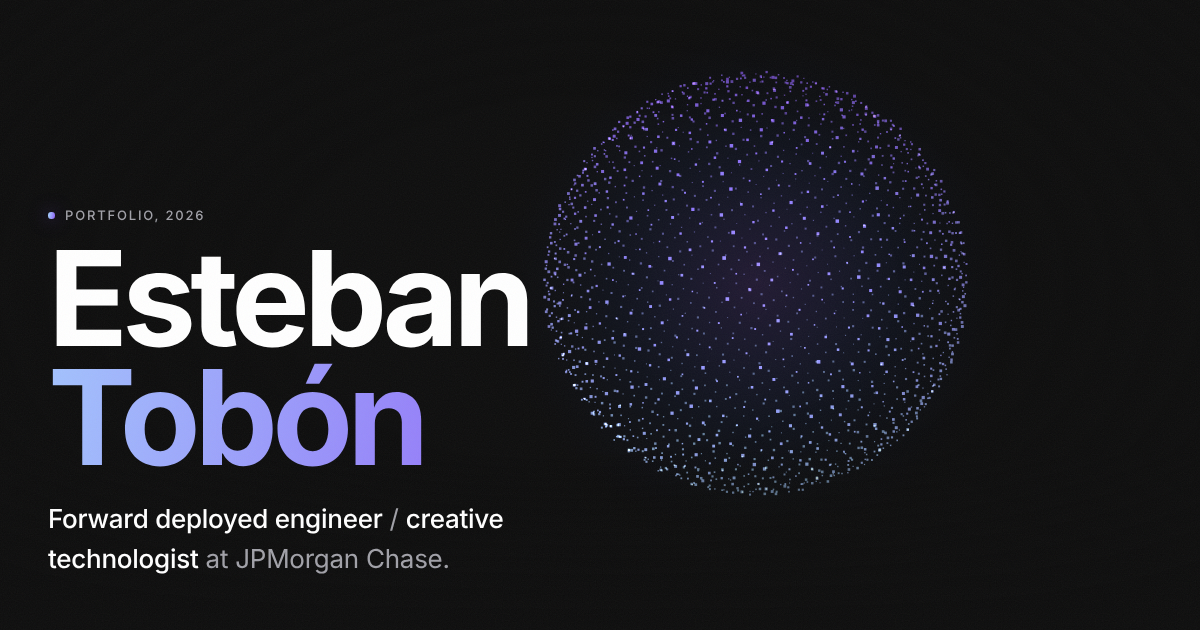
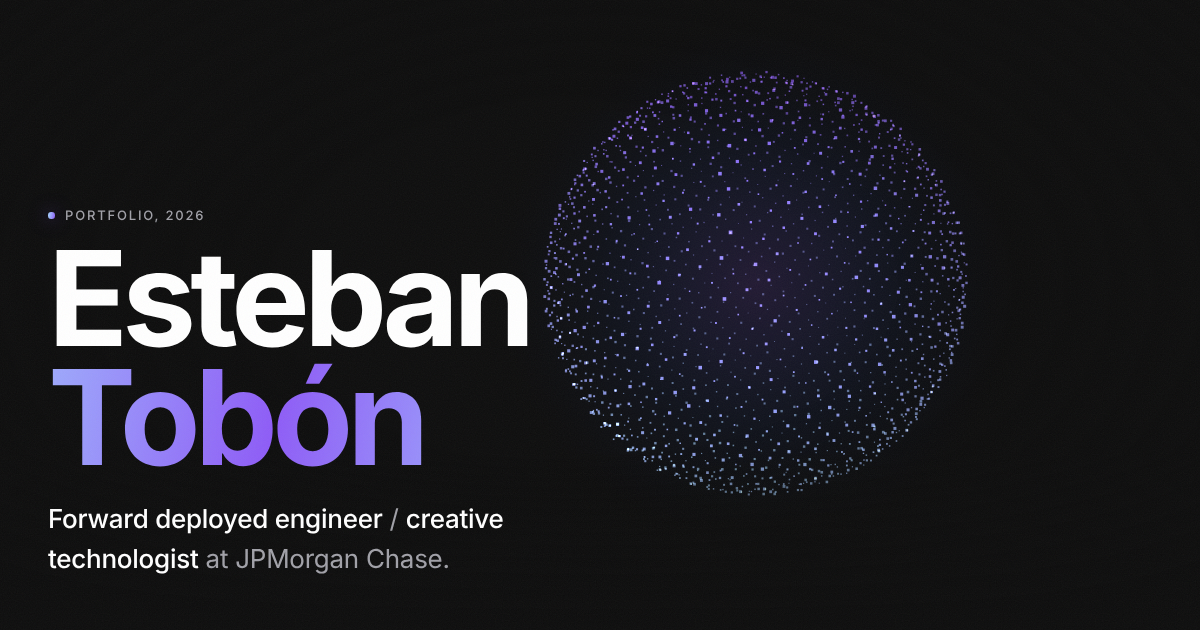
Livelier gradient, colored CTAs, shorter intro, minimal Marquis card
- Gradient text shows the full light blue to purple blend again and
  returns to section accents; page glows are stronger
- Message on LinkedIn is solid blue; Download resume is solid purple
  with a download icon (both pass 4.5:1 with white text)
- Project links and role titles use light blue instead of white
- Index statement shortened to one sentence at a smaller size
- Marquis card: wordmark only, on black

Claude-Session: https://claude.ai/code/session_01PE2Y16ZtRoL6vg8EHVayUC

diff --git a/me.html b/me.html
@@ -15,7 +15,7 @@
   <meta name="twitter:card" content="summary_large_image">
   <script>document.documentElement.classList.add('js');try{if(localStorage.getItem('motion')==='off')document.documentElement.classList.add('reduce-motion')}catch(e){}</script>
   <link rel="icon" href="assets/favicon.svg" type="image/svg+xml">
-  <link rel="stylesheet" href="assets/css/site.css?v=7">
+  <link rel="stylesheet" href="assets/css/site.css?v=8">
 </head>
 <body>
   <a class="skip" href="#main">Skip to content</a>
@@ -45,7 +45,7 @@
           <h1 class="display reveal" style="--i:1;margin-top:18px;font-size:clamp(52px,8.5vw,128px)">Hi, I'm<br><span class="grad-text">Esteban.</span></h1>
           <p class="lead reveal" style="--i:2;margin-top:28px">Forward deployed engineer and creative technologist at JPMorgan Chase. I work across AI, design and engineering, and I like shipping things that feel good to use.</p>
           <div class="links-row reveal" style="--i:3">
-            <a class="btn btn-grad" href="assets/Esteban-Tobon-Resume.pdf" download="Esteban-Tobon-Resume.pdf">Download resume</a>
+            <a class="btn btn-purple" href="assets/Esteban-Tobon-Resume.pdf" download="Esteban-Tobon-Resume.pdf"><svg class="btn-ico" viewBox="0 0 24 24" fill="none" stroke="currentColor" stroke-width="1.8" stroke-linecap="round" stroke-linejoin="round" aria-hidden="true" focusable="false"><path d="M12 4v11"/><path d="M7.5 10.5 12 15l4.5-4.5"/><path d="M5 19.5h14"/></svg>Download resume</a>
             <a class="btn" href="https://www.linkedin.com/in/estebantobon" target="_blank" rel="noopener"><svg class="btn-ico" viewBox="0 0 24 24" aria-hidden="true" focusable="false"><path fill="currentColor" d="M20.447 20.452h-3.554v-5.569c0-1.328-.027-3.037-1.852-3.037-1.853 0-2.136 1.445-2.136 2.939v5.667H9.351V9h3.414v1.561h.046c.477-.9 1.637-1.85 3.37-1.85 3.601 0 4.267 2.37 4.267 5.455v6.286zM5.337 7.433a2.062 2.062 0 1 1 0-4.125 2.062 2.062 0 0 1 0 4.125zM7.119 20.452H3.555V9h3.564v11.452zM22.225 0H1.771C.792 0 0 .774 0 1.729v20.542C0 23.227.792 24 1.771 24h20.451C23.2 24 24 23.227 24 22.271V1.729C24 .774 23.2 0 22.222 0h.003z"/></svg>LinkedIn</a>
             <a class="btn" href="https://github.com/estebantobon" target="_blank" rel="noopener"><svg class="btn-ico" viewBox="0 0 16 16" aria-hidden="true" focusable="false"><path fill="currentColor" d="M8 0C3.58 0 0 3.58 0 8c0 3.54 2.29 6.53 5.47 7.59.4.07.55-.17.55-.38 0-.19-.01-.82-.01-1.49-2.01.37-2.53-.49-2.69-.94-.09-.23-.48-.94-.82-1.13-.28-.15-.68-.52-.01-.53.63-.01 1.08.58 1.23.82.72 1.21 1.87.87 2.33.66.07-.52.28-.87.51-1.07-1.78-.2-3.64-.89-3.64-3.95 0-.87.31-1.59.82-2.15-.08-.2-.36-1.02.08-2.12 0 0 .67-.21 2.2.82.64-.18 1.32-.27 2-.27.68 0 1.36.09 2 .27 1.53-1.04 2.2-.82 2.2-.82.44 1.1.16 1.92.08 2.12.51.56.82 1.27.82 2.15 0 3.07-1.87 3.75-3.65 3.95.29.25.54.73.54 1.48 0 1.07-.01 1.93-.01 2.2 0 .21.15.46.55.38A8.013 8.013 0 0 0 16 8c0-4.42-3.58-8-8-8z"/></svg>GitHub</a>
           </div>
@@ -234,9 +234,9 @@
 
     <section class="section cta" aria-labelledby="cta-h">
       <div class="wrap">
-        <h2 id="cta-h" class="display reveal">Let's talk.</h2>
+        <h2 id="cta-h" class="display reveal">Let's <span class="grad-text">talk.</span></h2>
         <div class="cta-actions reveal" style="--i:1">
-          <a class="btn btn-grad" href="https://www.linkedin.com/in/estebantobon" target="_blank" rel="noopener"><svg class="btn-ico" viewBox="0 0 24 24" aria-hidden="true" focusable="false"><path fill="currentColor" d="M20.447 20.452h-3.554v-5.569c0-1.328-.027-3.037-1.852-3.037-1.853 0-2.136 1.445-2.136 2.939v5.667H9.351V9h3.414v1.561h.046c.477-.9 1.637-1.85 3.37-1.85 3.601 0 4.267 2.37 4.267 5.455v6.286zM5.337 7.433a2.062 2.062 0 1 1 0-4.125 2.062 2.062 0 0 1 0 4.125zM7.119 20.452H3.555V9h3.564v11.452zM22.225 0H1.771C.792 0 0 .774 0 1.729v20.542C0 23.227.792 24 1.771 24h20.451C23.2 24 24 23.227 24 22.271V1.729C24 .774 23.2 0 22.222 0h.003z"/></svg>Message on LinkedIn</a>
+          <a class="btn btn-blue" href="https://www.linkedin.com/in/estebantobon" target="_blank" rel="noopener"><svg class="btn-ico" viewBox="0 0 24 24" aria-hidden="true" focusable="false"><path fill="currentColor" d="M20.447 20.452h-3.554v-5.569c0-1.328-.027-3.037-1.852-3.037-1.853 0-2.136 1.445-2.136 2.939v5.667H9.351V9h3.414v1.561h.046c.477-.9 1.637-1.85 3.37-1.85 3.601 0 4.267 2.37 4.267 5.455v6.286zM5.337 7.433a2.062 2.062 0 1 1 0-4.125 2.062 2.062 0 0 1 0 4.125zM7.119 20.452H3.555V9h3.564v11.452zM22.225 0H1.771C.792 0 0 .774 0 1.729v20.542C0 23.227.792 24 1.771 24h20.451C23.2 24 24 23.227 24 22.271V1.729C24 .774 23.2 0 22.222 0h.003z"/></svg>Message on LinkedIn</a>
           <a class="btn" href="mailto:xbancho@gmail.com"><svg class="btn-ico" viewBox="0 0 24 24" aria-hidden="true" focusable="false"><path fill="currentColor" d="M24 5.457v13.909c0 .904-.732 1.636-1.636 1.636h-3.819V11.73L12 16.64l-6.545-4.91v9.273H1.636A1.636 1.636 0 0 1 0 19.366V5.457c0-2.023 2.309-3.178 3.927-1.964L5.455 4.64 12 9.548l6.545-4.91 1.528-1.145C21.69 2.28 24 3.434 24 5.457z"/></svg>Send me an email</a>
         </div>
       </div>
@@ -254,7 +254,7 @@
     </div>
   </footer>
 
-  <script src="assets/js/site.js?v=7" defer></script>
-  <script src="assets/js/me.js?v=7" defer></script>
+  <script src="assets/js/site.js?v=8" defer></script>
+  <script src="assets/js/me.js?v=8" defer></script>
 </body>
 </html>

diff --git a/assets/css/site.css b/assets/css/site.css
@@ -95,7 +95,9 @@ button { font: inherit; color: inherit; background: none; border: 0; cursor: poi
 .lead { font-size: clamp(19px, 2vw, 24px); line-height: 1.45; color: var(--muted); max-width: 40ch; }
 .muted { color: var(--muted); }
 .grad-text {
-  background: var(--grad); -webkit-background-clip: text; background-clip: text;
+  /* baby to purple and back, so every frame of the shimmer shows the full blend */
+  background: linear-gradient(100deg, var(--baby), var(--purple), var(--baby));
+  -webkit-background-clip: text; background-clip: text;
   color: transparent; -webkit-text-fill-color: transparent;
   background-size: 200% 100%;
   animation: shimmer 9s linear infinite alternate;
@@ -179,9 +181,15 @@ body.leaving { opacity: 0; transition: opacity .35s ease; }
 .btn-grad:hover { background: var(--fg); }
 .btn-grad::before {
   content: ""; position: absolute; inset: -2px; z-index: -1; border-radius: inherit;
-  background: var(--grad); filter: blur(16px); opacity: 0; transition: opacity .4s;
+  background: var(--grad); filter: blur(16px); opacity: .3; transition: opacity .4s;
 }
-.btn-grad:hover::before { opacity: .35; }
+.btn-grad:hover::before { opacity: .6; }
+/* Solid colour CTAs, white text (both pass 4.5:1) */
+.btn-blue, .btn-purple { border: 0; color: #fff; }
+.btn-blue { background: #2F5BFF; box-shadow: 0 10px 30px -10px rgba(47,91,255,.7); }
+.btn-blue:hover { background: #4870FF; }
+.btn-purple { background: #7C4DFF; box-shadow: 0 10px 30px -10px rgba(124,77,255,.75); }
+.btn-purple:hover { background: #8E62FF; }
 
 /* ---------- Hero (index) ---------- */
 .hero { position: relative; height: 520vh; }
@@ -234,8 +242,8 @@ body.leaving { opacity: 0; transition: opacity .35s ease; }
 
 /* ---------- Statement (word-by-word light up) ---------- */
 .statement {
-  font-size: clamp(30px, 4.6vw, 64px); line-height: 1.12; letter-spacing: -.03em; font-weight: 500;
-  margin: 0; max-width: 22ch;
+  font-size: clamp(26px, 3.4vw, 46px); line-height: 1.15; letter-spacing: -.025em; font-weight: 500;
+  margin: 0; max-width: 26ch;
 }
 .statement .w { opacity: .16; transition: opacity .25s linear; }
 .statement .w.lit { opacity: 1; }
@@ -329,6 +337,7 @@ body.leaving { opacity: 0; transition: opacity .35s ease; }
 }
 .card:hover .card-art img { transform: scale(1.04); filter: saturate(1); }
 .card-art.contain img { object-fit: contain; padding: 8% 12%; }
+.card-art.contain.wordmark img { padding: 22% 18%; }
 .card-art:has(img)::before { display: none; }
 .card-art .browser {
   position: absolute; left: 10%; right: 10%; top: 16%; bottom: -12%;
@@ -357,7 +366,7 @@ body.leaving { opacity: 0; transition: opacity .35s ease; }
 .card p { margin: 0; color: var(--muted); font-size: 15.5px; line-height: 1.5; }
 .card-link {
   margin-top: auto; padding-top: 12px; display: inline-flex; align-items: center; gap: 8px;
-  font-size: 15px; font-weight: 500;
+  font-size: 15px; font-weight: 500; color: var(--baby);
 }
 .card-link::before { content: ""; position: absolute; inset: 0; z-index: 2; } /* whole card clickable */
 
@@ -377,9 +386,9 @@ body.leaving { opacity: 0; transition: opacity .35s ease; }
 .orb {
   position: absolute; z-index: 0; border-radius: 50%; filter: blur(70px); opacity: .55; pointer-events: none;
 }
-.orb-a { width: 46vw; height: 46vw; right: -10vw; top: -14vw; background: radial-gradient(circle, var(--purple), transparent 65%); opacity: .4; }
-.orb-b { width: 36vw; height: 36vw; left: -12vw; top: 18vw; background: radial-gradient(circle, var(--baby), transparent 65%); opacity: .22; }
-.orb-c { width: 28vw; height: 28vw; right: 18vw; top: 26vw; background: radial-gradient(circle, var(--purple), transparent 65%); opacity: .18; }
+.orb-a { width: 46vw; height: 46vw; right: -10vw; top: -14vw; background: radial-gradient(circle, var(--purple), transparent 65%); opacity: .55; }
+.orb-b { width: 36vw; height: 36vw; left: -12vw; top: 18vw; background: radial-gradient(circle, #6FBFFF, transparent 65%); opacity: .45; }
+.orb-c { width: 28vw; height: 28vw; right: 18vw; top: 26vw; background: radial-gradient(circle, var(--purple), transparent 65%); opacity: .3; }
 
 /* ---------- Play ---------- */
 .filters { display: flex; gap: 8px; flex-wrap: wrap; margin-bottom: 36px; }
@@ -463,7 +472,7 @@ body.leaving { opacity: 0; transition: opacity .35s ease; }
 .timeline time { color: var(--muted); font-size: 15px; font-variant-numeric: tabular-nums; }
 .timeline h3 { margin: 0; font-size: 22px; letter-spacing: -.02em; font-weight: 600; }
 .timeline p { margin: 6px 0 0; color: var(--muted); }
-.timeline .role-title { color: var(--fg); opacity: .85; margin-top: 4px; }
+.timeline .role-title { color: var(--baby); margin-top: 4px; }
 .now { display: inline-flex; align-items: center; gap: 8px; font-size: 13px; color: var(--fg); margin-left: 10px; vertical-align: middle; }
 .now::before { content: ""; width: 8px; height: 8px; border-radius: 50%; background: #5BE49B; box-shadow: 0 0 0 0 rgba(91,228,155,.6); animation: ping 2s infinite; }
 @keyframes ping { 70% { box-shadow: 0 0 0 10px rgba(91,228,155,0); } 100% { box-shadow: 0 0 0 0 rgba(91,228,155,0); } }

diff --git a/index.html b/index.html
@@ -17,7 +17,7 @@
   <meta name="twitter:card" content="summary_large_image">
   <script>document.documentElement.classList.add('js');try{if(localStorage.getItem('motion')==='off')document.documentElement.classList.add('reduce-motion')}catch(e){}</script>
   <link rel="icon" href="assets/favicon.svg" type="image/svg+xml">
-  <link rel="stylesheet" href="assets/css/site.css?v=7">
+  <link rel="stylesheet" href="assets/css/site.css?v=8">
 </head>
 <body>
   <a class="skip" href="#main">Skip to content</a>
@@ -52,7 +52,7 @@
           </div>
           <div class="chapter" aria-hidden="true">
             <p class="chapter-num">02 / Build</p>
-            <p class="h2">Prototype in code,<br>on real data.</p>
+            <p class="h2">Prototype in code,<br><span class="grad-text">on real data.</span></p>
             <p class="lead">AI where it earns its place, design everywhere else.</p>
           </div>
           <div class="chapter" aria-hidden="true">
@@ -72,7 +72,7 @@
       <div class="wrap">
         <h2 id="about-h" class="eyebrow reveal"><span class="dot"></span>&nbsp; What I do</h2>
         <p class="statement" style="margin-top:28px">
-          I'm a forward deployed engineer and creative technologist at JPMorgan&nbsp;Chase, building AI tools, automations, and scalable web and content systems. Practical code, thoughtful design and smart AI that turn complexity into simple, lovable products.
+          I build AI tools, automations and web systems at JPMorgan&nbsp;Chase, turning complexity into <span class="grad-text">simple, lovable products.</span>
         </p>
       </div>
     </section>
@@ -117,7 +117,7 @@
         <div class="section-head">
           <div>
             <p class="eyebrow reveal"><span class="dot"></span>&nbsp; Selected web work</p>
-            <h2 id="work-h" class="h2 reveal" style="--i:1;margin-top:16px">Sites I've<br>designed &amp; built.</h2>
+            <h2 id="work-h" class="h2 reveal" style="--i:1;margin-top:16px">Sites I've<br><span class="grad-text">designed &amp; built.</span></h2>
           </div>
           <p class="muted reveal" style="--i:2;max-width:34ch;margin:0">Websites and digital experiences I've designed, developed and directed for brands across health, fashion, real estate, logistics, fintech and gaming.</p>
         </div>
@@ -148,7 +148,7 @@
             </div>
           </article>
           <article class="card reveal" style="--i:0" data-slug="marquis">
-            <div class="card-art contain" style="background:#34587a"><img src="assets/projects/marquis.webp" alt="Marquis Residences logo" loading="lazy" decoding="async"></div>
+            <div class="card-art contain wordmark" style="background:#000"><img src="assets/projects/marquis-wordmark.webp" alt="Marquis Residences logo" width="572" height="176" loading="lazy" decoding="async"></div>
             <div class="card-body">
               <div class="card-top"><span class="card-num">03</span><span>Real Estate</span></div>
               <h3 class="h3">Marquis Residences</h3>
@@ -209,7 +209,7 @@
     <section class="section cta" aria-labelledby="cta-h">
       <div class="wrap">
         <p class="eyebrow reveal"><span class="dot"></span>&nbsp; Say hi</p>
-        <h2 id="cta-h" class="display reveal" style="--i:1;margin-top:20px">Let's build<br>something.</h2>
+        <h2 id="cta-h" class="display reveal" style="--i:1;margin-top:20px">Let's build<br><span class="grad-text">something.</span></h2>
         <div class="cta-actions reveal" style="--i:2">
           <a class="btn btn-grad" href="me.html">About me</a>
           <a class="btn" href="https://github.com/estebantobon" target="_blank" rel="noopener"><svg class="btn-ico" viewBox="0 0 16 16" aria-hidden="true" focusable="false"><path fill="currentColor" d="M8 0C3.58 0 0 3.58 0 8c0 3.54 2.29 6.53 5.47 7.59.4.07.55-.17.55-.38 0-.19-.01-.82-.01-1.49-2.01.37-2.53-.49-2.69-.94-.09-.23-.48-.94-.82-1.13-.28-.15-.68-.52-.01-.53.63-.01 1.08.58 1.23.82.72 1.21 1.87.87 2.33.66.07-.52.28-.87.51-1.07-1.78-.2-3.64-.89-3.64-3.95 0-.87.31-1.59.82-2.15-.08-.2-.36-1.02.08-2.12 0 0 .67-.21 2.2.82.64-.18 1.32-.27 2-.27.68 0 1.36.09 2 .27 1.53-1.04 2.2-.82 2.2-.82.44 1.1.16 1.92.08 2.12.51.56.82 1.27.82 2.15 0 3.07-1.87 3.75-3.65 3.95.29.25.54.73.54 1.48 0 1.07-.01 1.93-.01 2.2 0 .21.15.46.55.38A8.013 8.013 0 0 0 16 8c0-4.42-3.58-8-8-8z"/></svg>GitHub</a>
@@ -229,8 +229,8 @@
     </div>
   </footer>
 
-  <script src="assets/js/site.js?v=7" defer></script>
-  <script src="assets/js/hero.js?v=7" defer></script>
-  <script src="assets/js/index.js?v=7" defer></script>
+  <script src="assets/js/site.js?v=8" defer></script>
+  <script src="assets/js/hero.js?v=8" defer></script>
+  <script src="assets/js/index.js?v=8" defer></script>
 </body>
 </html>

diff --git a/play.html b/play.html
@@ -15,8 +15,8 @@
   <meta name="twitter:card" content="summary_large_image">
   <script>document.documentElement.classList.add('js');try{if(localStorage.getItem('motion')==='off')document.documentElement.classList.add('reduce-motion')}catch(e){}</script>
   <link rel="icon" href="assets/favicon.svg" type="image/svg+xml">
-  <link rel="stylesheet" href="assets/css/site.css?v=7">
-  <link rel="stylesheet" href="assets/director/director.css?v=7">
+  <link rel="stylesheet" href="assets/css/site.css?v=8">
+  <link rel="stylesheet" href="assets/director/director.css?v=8">
 </head>
 <body>
   <a class="skip" href="#main">Skip to content</a>
@@ -50,7 +50,7 @@
         </div>
         <div class="feature-copy">
           <p class="eyebrow reveal">Featured · Peptide Balance</p>
-          <h2 id="feat-h" class="h2 reveal" style="--i:1;margin-top:16px">From research<br>to product story.</h2>
+          <h2 id="feat-h" class="h2 reveal" style="--i:1;margin-top:16px">From research<br><span class="grad-text">to product story.</span></h2>
           <p class="lead reveal" style="--i:2;margin-top:20px">A 40-second explainer for Peptide Balance that turns the published research on retatrutide into a clear product story.</p>
           <div class="links-row reveal" style="--i:3">
             <a class="btn" href="https://peptidebalance.com" target="_blank" rel="noopener">peptidebalance.com</a>
@@ -64,7 +64,7 @@
         <div class="section-head">
           <div>
             <p class="eyebrow reveal"><span class="dot"></span>&nbsp; Research</p>
-            <h2 id="gal-h" class="h2 reveal" style="--i:1;margin-top:16px">Gemini Notebook<br>Research.</h2>
+            <h2 id="gal-h" class="h2 reveal" style="--i:1;margin-top:16px">Gemini Notebook<br><span class="grad-text">Research.</span></h2>
           </div>
           <p class="muted reveal" style="--i:2;max-width:34ch;margin:0">Nine visual explainers on peptide science, endocrinology and metabolic health.</p>
         </div>
@@ -213,8 +213,8 @@
     </div>
   </footer>
 
-  <script src="assets/js/site.js?v=7" defer></script>
-  <script src="assets/js/play.js?v=7" defer></script>
-  <script src="assets/director/director.js?v=7" defer></script>
+  <script src="assets/js/site.js?v=8" defer></script>
+  <script src="assets/js/play.js?v=8" defer></script>
+  <script src="assets/director/director.js?v=8" defer></script>
 </body>
 </html>

diff --git a/404.html b/404.html
@@ -8,7 +8,7 @@
   <meta name="theme-color" content="#0E0E0E">
   <script>document.documentElement.classList.add('js');try{if(localStorage.getItem('motion')==='off')document.documentElement.classList.add('reduce-motion')}catch(e){}</script>
   <link rel="icon" href="/assets/favicon.svg" type="image/svg+xml">
-  <link rel="stylesheet" href="/assets/css/site.css?v=7">
+  <link rel="stylesheet" href="/assets/css/site.css?v=8">
 </head>
 <body>
   <div class="grain" aria-hidden="true"></div>
@@ -30,6 +30,6 @@
       <div class="cta-actions reveal" style="--i:3"><a class="btn btn-grad" href="/">Back to Index</a></div>
     </div>
   </main>
-  <script src="/assets/js/site.js?v=7" defer></script>
+  <script src="/assets/js/site.js?v=8" defer></script>
 </body>
 </html>
